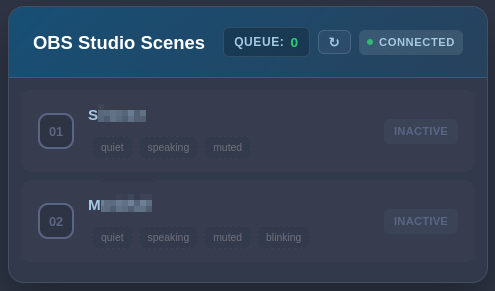
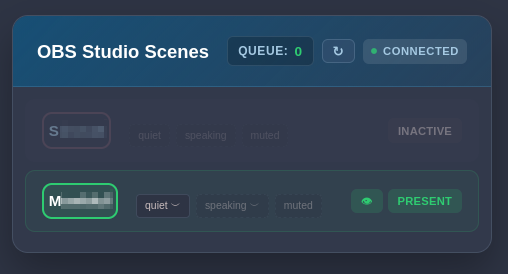
Updated documentation and fixed a problem when transitioning from v1.6.2 to 1.7.0 with scene naming regarding blinking. The user will get an error in the logs, but the program will run correctly, without having blinking enabled for the affected scene.

diff --git a/src/modules/WebUI/static/obs_updater.js b/src/modules/WebUI/static/obs_updater.js
@@ -72,19 +72,26 @@ function renderScenes(scenes) {
         const sourcesHTML = (scene.all && scene.all.length > 0)
             ? `<div class="scene-sources">
                     ${scene.all.map(source => {
+                        let hasBlinking = false;
+                        let enabledOverride = false;
                         const sourceItems = source.subItems.map(subItem => {
-                            const subItemStyle = subItem.enabled
-                                ? ''
-                                : 'style="opacity: 0.4; border-style: dashed;"';
-                            return `<span class="source-tag" ${subItemStyle}>${escapeHTML(source.name)}-${escapeHTML(subItem.name)}</span>`;
+                            if (subItem.name === "blinking") {
+                                hasBlinking = true;
+                                enabledOverride = subItem.enabled;
+                            } else {
+                                const subItemStyle = subItem.enabled
+                                    ? ''
+                                    : 'style="opacity: 0.4; border-style: dashed;"';
+                                return `<span class="source-tag" ${subItemStyle}>${escapeHTML(source.name)}-${escapeHTML(subItem.name)}</span>`;
+                            }
                         }).join('');
-                        const sourceStyle = source.enabled
+                        const sourceStyle = source.enabled || enabledOverride
                             ? ''
                             : 'style="opacity: 0.4; border-style: dashed;"';
                         if (source.enabled && source.name === "muted") {
                             statusClass = "status-muted";
                         }
-                        return `<span class="source-tag" ${sourceStyle}>${escapeHTML(source.name)}</span> ${sourceItems}`;
+                        return `<span class="source-tag" ${sourceStyle}>${escapeHTML(source.name)}${hasBlinking ? ' ︶' : ''}</span> ${sourceItems}`;
                     }).join('')}
                 </div>`
             : '<div class="scene-sources"><span class="source-tag" style="font-style: italic;">No sources</span></div>';
@@ -92,9 +99,10 @@ function renderScenes(scenes) {
         return `
             <li class="user-item ${statusClass}">
                 <div class="user-info" style="width: 75%;">
-                    <div class="avatar">${marker}</div>
-                    <div class="user-details">
+                    <div class="avatar">
                         <span class="user-name">${escapeHTML(scene.name)}</span>
+                    </div>
+                    <div class="user-details">
                         ${sourcesHTML}
                     </div>
                 </div>

diff --git a/src/modules/WebUI/static/style.css b/src/modules/WebUI/static/style.css
@@ -510,12 +510,6 @@ input:checked + .slider:before {
     transition: all 0.2s ease;
 }
 
-.voice-widget-theme .user-item:hover {
-    background-color: rgba(90, 101, 133, 0.15);
-    border-color: rgba(165, 201, 226, 0.1);
-    transform: translateY(-1px);
-}
-
 .voice-widget-theme .user-info {
     display: flex;
     align-items: center;
@@ -539,10 +533,8 @@ input:checked + .slider:before {
 }
 
 .voice-widget-theme .avatar {
-    width: 36px;
-    height: 36px;
     border-radius: 10px;
-    background-color: var(--color-main-dark);
+    padding: 0.3rem;
     display: flex;
     align-items: center;
     justify-content: center;
@@ -625,17 +617,17 @@ input:checked + .slider:before {
 /* Speaking / Active (Green Status Marker) */
 .voice-widget-theme .user-item.status-present { background-color: rgba(46, 204, 113, 0.06); border-color: rgba(46, 204, 113, 0.15); }
 .voice-widget-theme .user-item.status-present .avatar { border-color: var(--status-green); color: var(--status-green); background-color: rgba(46, 204, 113, 0.1); }
-.voice-widget-theme .user-item.status-present .status-badge { background-color: rgba(46, 204, 113, 0.15); color: var(--status-green); break-before: always; }
-.voice-widget-theme .user-item.status-present .user-name { color: #ffffff; }
+.voice-widget-theme .user-item.status-present .avatar .user-name { color: #ffffff; }
+.voice-widget-theme .user-item.status-present .status-badge { background-color: rgba(46, 204, 113, 0.15); color: var(--status-green); break-before: always; margin-left: 0.3rem }
 
 /* Muted / Suspended (Red Status Marker + Highlight Palette Color) */
 .voice-widget-theme .user-item.status-muted .avatar { border-color: var(--status-red); color: var(--status-red); }
-.voice-widget-theme .user-item.status-muted .status-badge { background-color: var(--color-highlight); color: #ffffff; break-before: always; }
+.voice-widget-theme .user-item.status-muted .status-badge { background-color: var(--color-highlight); color: #ffffff; break-before: always; margin-left: 0.3rem }
 
 /* Left Channel (Muted Special Dark Tones) */
 .voice-widget-theme .user-item.status-left { opacity: 0.45; }
 .voice-widget-theme .user-item.status-left .avatar { border-color: var(--color-special-dark); color: var(--color-special-dark); }
-.voice-widget-theme .user-item.status-left .status-badge { background-color: rgba(105, 81, 99, 0.2); color: var(--color-special-light); break-before: always; }
+.voice-widget-theme .user-item.status-left .status-badge { background-color: rgba(105, 81, 99, 0.2); color: var(--color-special-light); break-before: always; margin-left: 0.3rem }
 
 /* ==========================================================================
    5. OBS NESTED METADATA EXTENSIONS

diff --git a/src/modules/OBS/OBSConnector.py b/src/modules/OBS/OBSConnector.py
@@ -270,13 +270,18 @@ class OBSConnector(BaseConnector):
             requests.append(sub_item.get_request(scene.itemName, self.request_id).to_request_dict())
             status = UserStatus(subitem_name)
             if status == UserStatus.Blinking:
-                parent_status = UserStatus(item["sourceName"].split('-')[-2])
-                if parent_status not in scene.sub_items.keys():
-                    temp_statuses[parent_status] = sub_item
-                else:
-                    scene.sub_items[parent_status].add_sub_item(status, sub_item)
-                    self.logger.debug(f"Scene subitem added to {scene.sub_items[parent_status].itemName}: {sub_item.itemName}")
-                continue
+                parent_string = item["sourceName"].split('-')[-2]
+                try:
+                    parent_status = UserStatus.from_string(parent_string)
+                    if parent_status not in scene.sub_items.keys():
+                        temp_statuses[parent_status] = sub_item
+                    else:
+                        scene.sub_items[parent_status].add_sub_item(status, sub_item)
+                        self.logger.debug(f"Scene subitem added to {scene.sub_items[parent_status].itemName}: {sub_item.itemName}")
+                    continue
+                except NotImplemented:
+                    self.logger.error(f"Scene name was incorrect: {item['sourceName']}. `{parent_string}` is not a valid state.")
+                    continue
             scene.add_sub_item(status, sub_item)
         for key, value in temp_statuses.items():
             scene.sub_items[key].add_sub_item(UserStatus(value.itemName), value)
